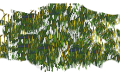
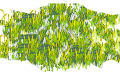
pixi add images

diff --git a/pixijs-client/src/theworld.js b/pixijs-client/src/theworld.js
@@ -34,14 +34,14 @@ class TheWorld {
  loadObjectsMockup(){
    let jsonData = [
      ['', '', '', '', '', '', '', '', '', ''],
-     ['', '', '', 'og', '', '', '', '', '', ''],
-     ['', 'os', '', '', '', '', '', '', '', ''],
-      ['os', 'ol', 'om', '', '', '', '', '', '', ''],
+     ['', '', '', 'og', '', '', 'ow', '', '', ''],
+     ['', 'os', '', '', '', '', 'ow', '', '', ''],
+      ['os', 'ol', 'om', '', 'us', 'us', '', '', '', ''],
       ['om', 'ol', 'ol', '', '', '', '', 'oc', 'oc', 'oc'],
-      ['om', 'ol', 'os', '', '', '', '', 'oc', 'oc', ''],
-      ['', 'om', 'om', '', '', '', '', 'oc', 'ov', ''],
+      ['om', 'ol', 'os', '', 'us', 'ua', 'uc', 'oc', 'oc', ''],
+      ['', 'om', 'om', '', '', 'ua', 'uc', 'oc', 'ov', ''],
       ['', 'os', '', '', '', '', '', 'oc', 'oc', ''],
-      ['', '', '', '', '', '', '', '', '', ''],
+      ['', '', '', '', '', '', '', '', 'uc', ''],
       ['', '', '', '', '', '', '', '', '', '']
    ];
    this._createObjects(jsonData);

diff --git a/pixijs-client/src/main.js b/pixijs-client/src/main.js
@@ -28,7 +28,11 @@ class Main {
         {"name":'ol', "url":"img/forest_l.png"},
         {"name":'om', "url":"img/forest_m.png"},
         {"name":'os', "url":"img/forest_s.png"},
-        {"name":'og', "url":"img/mine_g.png"}
+        {"name":'og', "url":"img/mine_g.png"},
+        {"name":'ow', "url":"img/grapes.png"},
+        {"name":'ua', "url":"img/arkebusers.png"},
+        {"name":'uc', "url":"img/cows.png"},
+        {"name":'us', "url":"img/ship.png"}
       ]);
       let self = this;
     this.app.loader.load((loader, resources) => {

diff --git a/pixijs-client/src/map.js b/pixijs-client/src/map.js
@@ -94,6 +94,10 @@ class MapWorld {
     else if(tile == 'oc') return this.resources.oc.texture;
     else if(tile == 'ov') return this.resources.ov.texture;
     else if(tile == 'og') return this.resources.og.texture;
+    else if(tile == 'ua') return this.resources.ua.texture;
+    else if(tile == 'us') return this.resources.us.texture;
+    else if(tile == 'uc') return this.resources.uc.texture;
+    else if(tile == 'ow') return this.resources.ow.texture;
     else return this.resources.p.texture;
 
   }

diff --git a/pixijs-client/index.js b/pixijs-client/index.js
@@ -1,0 +1,11 @@
+var express = require('express');
+var app = express();
+
+app.use(express.static('html'));
+app.use('/img', express.static('img'));
+app.use('/lib',express.static('lib'));
+app.use('/src', express.static('src'));
+
+
+app.listen(3000, () => console.log("listen on port 3000"));
+

diff --git a/pixijs-client/src/grid.js b/pixijs-client/src/grid.js
@@ -5,7 +5,7 @@ class Grid {
     this.gridContainer = gridContainer;
     this.x = X; this.y = Y;
     this.drawHexGrid();
-    this.drawPointIndexes();
+    //this.drawPointIndexes();
   }
   drawHexGrid() {
         let background = new PIXI.Graphics();
